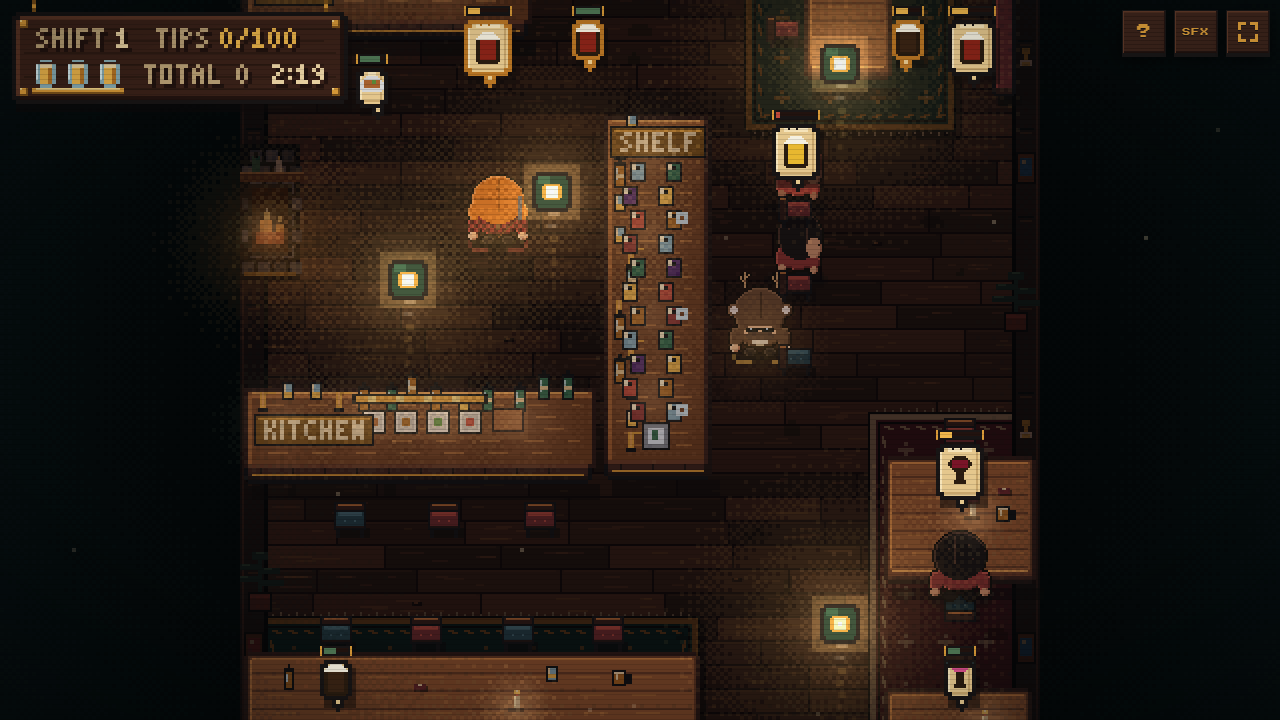
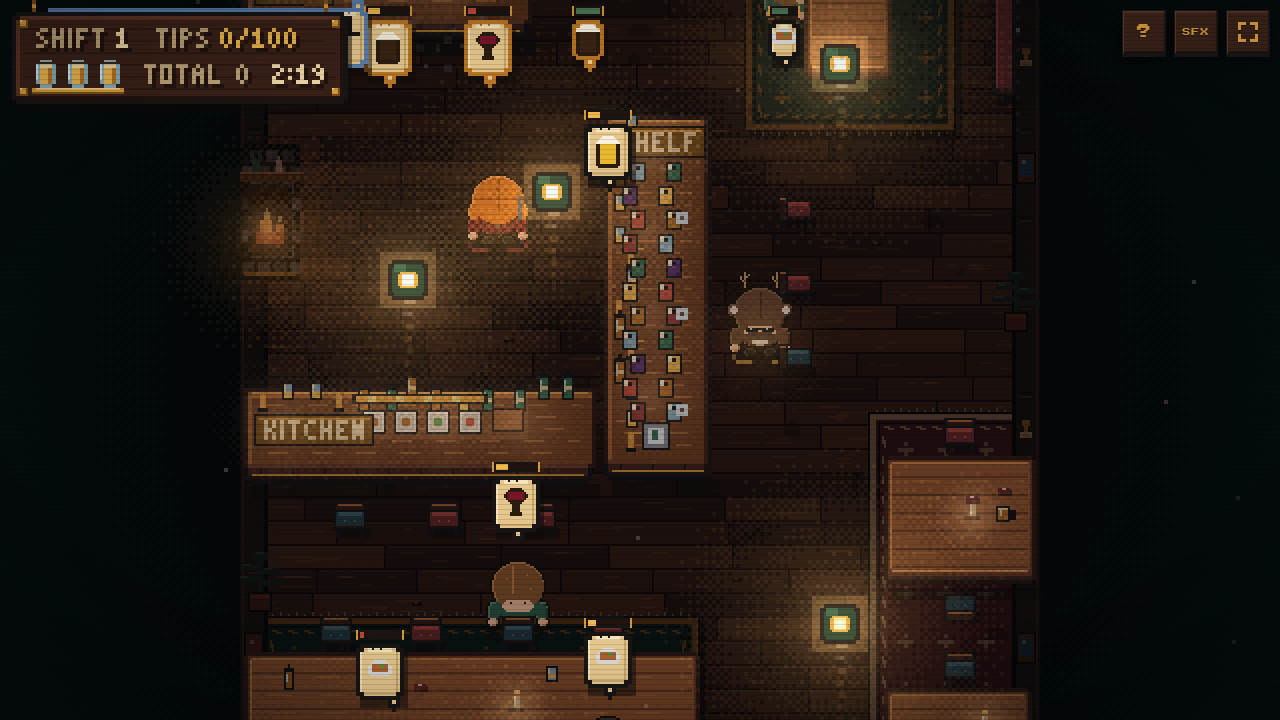
feat(P5–P7): event-driven reactions, calmer shell, docs and evidence for the overhead overhaul
Reactions ride existing outcomes only (hit squash over the existing
hit-stop, delivery lift, hunter startle, pint while drinking) and never
touch position, score or input. Shell scanlines softened. CLAUDE.md,
art-direction status, README and the ledger record the overhead camera,
the generator, the atlas pipeline, measurements and the remaining gaps.

Claude-Session: https://claude.ai/code/session_01QtnAqeEh7ToxbAzhWcUX8e

diff --git a/game.js b/game.js
@@ -311,17 +311,17 @@ function bakedSprite(sprite, palette, flipX) {
   return pair[key];
 }
 
-function drawSprite(sprite, palette, screenX, screenY, flipX) {
+// `squash` ({x, y} scale factors, optional) is the reaction layer's only
+// handle on a sprite: the feet stay put and the body compresses or lifts.
+function drawSprite(sprite, palette, screenX, screenY, flipX, squash) {
   const pixelSize = sprite.pixelSize || 1;
-  const x = Math.round(screenX * ART_SCALE) / ART_SCALE;
-  const y = Math.round(screenY * ART_SCALE) / ART_SCALE;
-  ctx.drawImage(
-    bakedSprite(sprite, palette, !!flipX),
-    x,
-    y,
-    sprite.w * pixelSize,
-    sprite.h * pixelSize,
-  );
+  const w = sprite.w * pixelSize;
+  const h = sprite.h * pixelSize;
+  const sxScale = squash ? squash.x : 1;
+  const syScale = squash ? squash.y : 1;
+  const x = Math.round((screenX + (w - w * sxScale) / 2) * ART_SCALE) / ART_SCALE;
+  const y = Math.round((screenY + (h - h * syScale)) * ART_SCALE) / ART_SCALE;
+  ctx.drawImage(bakedSprite(sprite, palette, !!flipX), x, y, w * sxScale, h * syScale);
 }
 
 function spriteVisualW(sprite) { return sprite.w * (sprite.pixelSize || 1); }
@@ -1815,6 +1815,8 @@ function resetGame() {
   hitStopTimer = 0;
   pintKnockTimer = 0;
   pintKnockIndex = -1;
+  player.reaction = null;
+  hunter.reaction = null;
   shift = 1;
   shiftClock = 0;
   shiftTips = 0;
@@ -1911,6 +1913,7 @@ function completeDelivery(target) {
   removeFromTray(target);
   const { tip, clutch } = deliveryTip(target);
   earnTips(tip);
+  react(player, 'serve');
   shiftStats.deliveries++;
   if (clutch) shiftStats.clutch++;
   Sound.play('deliver');
@@ -2415,6 +2418,7 @@ function hunterNoticesPlayer() {
   setHunterState('chase');
   hunterLastSeenTimer = 0;
   showHunterAlert('!', 0.9);
+  react(hunter, 'spotted');
   Sound.play('whistle');
   Dialogue.trigger('hunterSpotted', null);
 }
@@ -2761,8 +2765,9 @@ function update(dt) {
     if (t.ttl <= 0) floatingTexts.splice(i, 1);
   }
 
-  // Leg animation timers.
+  // Leg animation timers, and the reaction timers that ride on them.
   for (const e of [player, hunter, ...customers]) tickLegs(e, dt);
+  tickReactions(dt);
   if (waiter) tickLegs(waiter, dt);
 
   // Life regen: only once a few hit-free seconds have passed, and never
@@ -2792,6 +2797,7 @@ function update(dt) {
     shiftStats.hits++;
     hitStopTimer = HIT_STOP;
     pintKnockTimer = PINT_KNOCK_TIME;
+    react(player, 'hit');
     pintKnockIndex = Math.min(LIFE_SEGMENT_COUNT - 1, Math.floor(life * LIFE_SEGMENT_COUNT + 1e-6));
 
     if (life <= 1e-9) {
@@ -4301,20 +4307,61 @@ function drawEntity(e, camX, camY) {
   const flicker = e === player && hitInvulnTimer > 0 && Math.floor(hitInvulnTimer * 10) % 2 === 0;
   ctx.globalAlpha = flicker ? 0.4 : 1;
   const frame = rasterFrameFor(e);
-  if (frame) drawRasterFrame(frame, e.x - camX + (e.swayOffset || 0), e.y - camY + stepLift);
-  else drawSprite(sprite, e.palette || set.palette, sx, sy, flip);
+  const squash = squashFor(e);
+  if (frame) drawRasterFrame(frame, e.x - camX + (e.swayOffset || 0), e.y - camY + stepLift, squash);
+  else drawSprite(sprite, e.palette || set.palette, sx, sy, flip, squash);
   ctx.globalAlpha = 1;
+  // The hunter's pint while he sits one out: the existing drinking state,
+  // shown in his hand.
+  if (e === hunter && hunterState === 'drinking') {
+    const icon = ORDER_ICONS['beer-blond'];
+    drawSprite(icon.sprite, icon.palette, e.x - camX + 5, e.y - camY - 12, false);
+  }
 }
 
 // Draws an atlas frame with its pivot at world point (wx, wy): source rect in
 // image pixels, destination in world units (pixels ÷ authored density), the
 // origin snapped to the backing grid like every procedural sprite.
-function drawRasterFrame(frame, wx, wy) {
+function drawRasterFrame(frame, wx, wy, squash) {
   const d = frame.density;
-  const x = Math.round((wx - frame.pivot.x / d) * ART_SCALE) / ART_SCALE;
-  const y = Math.round((wy - frame.pivot.y / d) * ART_SCALE) / ART_SCALE;
-  ctx.drawImage(frame.image, frame.rect.x, frame.rect.y, frame.rect.width, frame.rect.height,
-    x, y, frame.rect.width / d, frame.rect.height / d);
+  const w = frame.rect.width / d;
+  const h = frame.rect.height / d;
+  const sxScale = squash ? squash.x : 1;
+  const syScale = squash ? squash.y : 1;
+  const x = Math.round((wx - frame.pivot.x / d * sxScale) * ART_SCALE) / ART_SCALE;
+  const y = Math.round((wy - frame.pivot.y / d * syScale) * ART_SCALE) / ART_SCALE;
+  ctx.drawImage(frame.image, frame.rect.x, frame.rect.y, frame.rect.width, frame.rect.height, x, y, w * sxScale, h * syScale);
+}
+
+// ---- Reactions (presentation only) ------------------------------------------
+// A reaction is a short timer on an entity, set where the game commits an
+// outcome (a hit, a delivery, the hunter spotting you) and read only here.
+// It changes how the sprite is drawn — a squash, a lift — never where the
+// entity is, what it scores or whether it can move. The existing hit-stop is
+// reused, not stacked.
+const REACTIONS = {
+  hit: { time: 0.32, squash: t => ({ x: 1 + 0.18 * t, y: 1 - 0.22 * t }) },          // recoil, settles
+  serve: { time: 0.26, squash: t => ({ x: 1 - 0.06 * Math.sin(t * Math.PI), y: 1 + 0.1 * Math.sin(t * Math.PI) }) },  // a lift
+  spotted: { time: 0.22, squash: t => ({ x: 1 - 0.08 * t, y: 1 + 0.14 * t }) },       // a startle stretch
+};
+function react(e, kind) {
+  const def = REACTIONS[kind];
+  if (!def) return;
+  // A hit outranks a celebration; nothing outranks a hit in progress.
+  if (e.reaction && e.reaction.kind === 'hit' && kind !== 'hit') return;
+  e.reaction = { kind, t: def.time };
+}
+function tickReactions(dt) {
+  for (const e of [player, hunter]) {
+    if (!e.reaction) continue;
+    e.reaction.t -= dt;
+    if (e.reaction.t <= 0) e.reaction = null;
+  }
+}
+function squashFor(e) {
+  if (!e.reaction || prefersReducedMotion) return null;
+  const def = REACTIONS[e.reaction.kind];
+  return def.squash(clamp(e.reaction.t / def.time, 0, 1));
 }
 
 // No contact shadow and no flicker handling — the ghost isn't standing on the

diff --git a/tests/smoke.js b/tests/smoke.js
@@ -396,6 +396,29 @@ function run() {
   if (debug.getHunterState().state !== 'lost') throw new Error('The ghost passing through the hunter should spook him.');
   debug.resetGame();
 
+  // Reactions ride on real events and never move anyone: a delivery lifts the
+  // Doe, a hit outranks a celebration, and the timers clear on restart.
+  debug.resetGame();
+  const seatR = debug.SEATS.find(s => !s.reserved && !s.occupied);
+  for (const s of debug.SEATS) s.occupied = s !== seatR;
+  debug.spawnCustomer();
+  for (const s of debug.SEATS) s.occupied = false;
+  seatR.occupied = true;
+  const cR = debug.customers[debug.customers.length - 1];
+  cR.state = 'sitting'; cR.x = cR.seat.x; cR.y = cR.seat.y; cR.path = null; cR.sitTimer = 40; cR.patienceDuration = 40; cR.orderType = 'wine'; cR.orderPlacedAt = 0; cR.orderAppearAt = 0;
+  cR.beingCarried = true; debug.player.tray.length = 0; debug.player.tray.push({ type: 'wine', customer: cR });
+  debug.player.x = cR.x; debug.player.y = cR.y + 6;
+  const beforeX = debug.player.x;
+  debug.handleInteract();
+  if (!debug.player.reaction || debug.player.reaction.kind !== 'serve') throw new Error('A delivery should start the serve reaction.');
+  if (debug.player.x !== beforeX) throw new Error('A reaction must not move the player.');
+  vm.runInContext("react(player, 'hit')", context);
+  vm.runInContext("react(player, 'serve')", context);
+  if (debug.player.reaction.kind !== 'hit') throw new Error('A hit must outrank a celebration.');
+  debug.render();
+  debug.resetGame();
+  if (debug.player.reaction) throw new Error('Restart should clear reactions.');
+
   // Shifts: the clock runs, last call arms in the final seconds and stops
   // new walk-ins, the tally board freezes the floor until a press, and the
   // next shift starts from zero with the target raised.
@@ -470,7 +493,7 @@ function run() {
   });
 
   rasterCheck.then(() => console.log(`Smoke test passed: ${SCRIPT_FILES.length} scripts, ${freeSeats} customer routes, ` +
-    `${debug.regularState().length} regulars, waiter visit, and serving loop, hunter states, Nazim's night, the round, the ghost's spook, shifts, and render pass with HUD, tally and caught boards; raster atlas path.`)).catch(err => { console.error(err); process.exit(1); });
+    `${debug.regularState().length} regulars, waiter visit, and serving loop, hunter states, Nazim's night, the round, the ghost's spook, reactions, shifts, and render pass with HUD, tally and caught boards; raster atlas path.`)).catch(err => { console.error(err); process.exit(1); });
 }
 
 run();

diff --git a/tools/export-sheets.js b/tools/export-sheets.js
@@ -50,7 +50,7 @@ async function main() {
     const result = await page.evaluate((kind) => {
       const set = window.__debug.SPRITES[kind];
       if (!set || !set.dirs) return null;
-      const bases = ['idle', 'walk', 'carry', 'carryWalk', 'gun', 'gunWalk', 'lean', 'slump'];
+      const bases = ['idle', 'walk', 'carry', 'carryWalk', 'gun', 'gunWalk', 'lean', 'slump', 'spray'];
       const dirs = ['down', 'up', 'right', 'left'];
       const frames = [];       // { id, sprite }
       const animations = {};

diff --git a/style.css b/style.css
@@ -73,7 +73,7 @@ html, body {
   inset: 0;
   pointer-events: none;
   background:
-    repeating-linear-gradient(0deg, rgba(0, 0, 0, 0.12) 0 1px, rgba(0, 0, 0, 0) 1px 5px),
+    repeating-linear-gradient(0deg, rgba(0, 0, 0, 0.05) 0 1px, rgba(0, 0, 0, 0) 1px 5px),
     radial-gradient(120% 100% at 50% 50%, rgba(0, 0, 0, 0) 40%, rgba(0, 0, 0, 0.7) 100%);
 }
 

diff --git a/CLAUDE.md b/CLAUDE.md
@@ -106,7 +106,9 @@ A collider is padded by `CHAIR_GAP + CHAIR_SIZE` **only on sides that actually h
 
 ### 3. Sprite authoring and rendering
 
-All visuals are rows-of-palette-characters: `R(char, count, ...)` builds a row string, `buildSprite(rows)` wraps rows into `{rows, w, h}`, and a palette object maps each character to a hex colour (or `null` for transparent). **The cast is authored straight onto the 2x backing grid.** `lightSprite(rows, ramps, w, h)` takes literal rows (32×40 for the Doe and hunter, 28×32 for the regulars, 28×26 for walk-ins), applies one light direction (top-left: exposed north/west edges take the material's light key, south/east its dark key) and returns a `pixelSize: 0.5` sheet — the same on-screen footprint as the old 16×18 authored sprites with four times the information, which is where the faces come from. Pose variants are built by `patchRow` (blink, talk, walk legs, the held pint) rather than authored twice; Nazim's lean/slump drop the head rows onto the chest. Nazim keeps the `r` cheek and `w` eye keys so `NAZIM_STAGE_PALETTES` still recolours him per stage. Sheets wider than the body (carry, shotgun) set `anchorX` in logical units. The coarse `DOE_IDLE`/`NAZIM_IDLE`/… rows remain as silhouette reference and feed `detailSprite()`, which refines a 1x silhouette onto the 2x grid — still used by the waiter and the order icons. `composeSprite()` is the older wide-pose helper.
+All visuals are rows-of-palette-characters: `R(char, count, ...)` builds a row string, `buildSprite(rows)` wraps rows into `{rows, w, h}`, and a palette object maps each character to a hex colour (or `null` for transparent). **The camera is high overhead** (`docs/overhaul/00-CAMERA-DIRECTION.md`): crowns of heads, hats and hoods, shoulder tops, foreshortened bodies, a sliver of face only when facing the camera or sideways. **The cast is generated, not hand-typed.** `ohFigure(spec, dir, frame, opts)` paints a 40×44 backing-pixel figure (`pixelSize 0.5`, feet at the bottom) from a spec — head kind (`hood`/`cap`/`hair`/`bald`/`flatcap`), ears/antlers/flaps, coat/hands/feet/chest/vest, glasses/beard/moustache/brows — then `ohOutline` and `lightSprite` (one top-left light, three tones per material). `ohSheetSet` builds a **directional set** (`dirs: true`): keys are `pose.facing` — `idle`, `walk`/`walkB` (two-step), and prop variants `carry*` (Doe), `gun*` (hunter), `spray*` (waiter), `lean`/`slump` (Nazim: head pushed toward what he faces). `down`, `up` and `right` are painted; `left` mirrors the body and **re-paints the prop on the anatomical side** — never mirror a carry or gun frame. `OH_CUSTOMER.variants` gives walk-ins three head shapes over the six palette looks. Nazim keeps the `r`/`w` keys for `NAZIM_STAGE_PALETTES`, though from above his face is hidden when he faces the table (by design). The ghost is `OH_GHOST` (alpha, outside the palette policy). The frontal HD sheets (`lightSprite` on literal rows: `DOE_HD`, `HUNTER_HD`, `NAZIM_HD`…) and the coarse `DOE_IDLE`-style rows remain as costume references; `detailSprite()` still refines the order icons.
+
+**Raster atlases can replace any family.** `src/assets.js` (`Assets`) loads optional PNG+JSON atlases listed in `assets/sprites/manifest.json` (schema v1: image-pixel rects and pivots, `authoredPixelsPerWorldUnit`, timed animations keyed `pose.facing`), validates them before registering, waits for decode, drops stale loads after a restart and falls back per family to the generated sets. `drawEntity` asks `rasterFrameFor(e)` first and draws through `drawRasterFrame` (pixels ÷ density = world units, pivot at the feet). Walk-ins stay procedural because their palette is per entity. `tools/export-sheets.js` writes the generated sets out as atlases, so the files in `assets/sprites/` are the current art and a cleaned production sheet with the same layout drops in file-for-file.
 
 `drawSprite()` is still the single renderer for the format, but it no longer paints pixel by pixel every frame: it **bakes** each `(sprite, palette, facing)` combination into an offscreen canvas the first time it's needed and blits it afterwards. The cache is nested `WeakMap`s keyed by object identity, so a customer's one-off palette is collected along with the customer.
 
@@ -114,7 +116,7 @@ A sprite set is keyed by pose name. Movers use `idle`/`walk` driven by `legFrame
 
 ### 4. Entities and movement
 
-`makeEntity(kind, x, y)` creates the shared shape used by the player, hunter, customers **and regulars**. **An entity's `(x, y)` is its feet/anchor point, not top-left.** `ENTITY_HITBOXES` preserves the original physics dimensions; visual width/height and optional `anchorX` come from the selected sheet. Never derive collision from refined sprite dimensions or a wider prop pose.
+`makeEntity(kind, x, y)` creates the shared shape used by the player, hunter, customers **and regulars**. **An entity's `(x, y)` is its feet/anchor point, not top-left.** Every entity also carries a visual `facing` (`down`/`up`/`right`/`left`) set by `faceToward(e, dx, dy)` from its movement (dominant axis, small dead-zone, keeps the last facing when still) or by `seatFacing(seat)` when seated; it selects the sprite direction and never changes the movement vector. `ENTITY_HITBOXES` preserves the original physics dimensions; visual width/height and optional `anchorX` come from the selected sheet. Never derive collision from refined sprite dimensions or a wider prop pose.
 
 `tryMove(e, dx, dy)` resolves X and Y independently against `FURNITURE` colliders so movement slides along walls/tables instead of stopping dead, returning `{x, y, blockedX, blockedY}`. `collidesAt(e, x, y, exclude)` takes an optional piece of furniture to ignore — that is what lets a customer walk *into* their own table's padded collider to reach the chair inside it. Base speeds: player **62**, customer 38, hunter 54 (recomputed every frame from the level), waiter 46, ghost 16.
 
@@ -194,7 +196,7 @@ The rub/slide layer stays as the safety net for the cases the grid can't express
 
 ### 10. Life and capture
 
-Contact with the hunter removes one of three life segments instead of ending the run immediately. A 1.5-second invulnerability window and a collision-aware shove give the player room to escape; the sprite flickers while protected. Regeneration begins after three hit-free seconds and takes 20 seconds to refill an empty bar. A hit also holds the floor for `HIT_STOP` 0.08 s and rocks the emptied pint on the HUD sign (`pintKnockTimer`/`pintKnockIndex`). Only the final hit sets `caught`, plays the caught cue and triggers the room's caught dialogue.
+Contact with the hunter removes one of three life segments instead of ending the run immediately. A 1.5-second invulnerability window and a collision-aware shove give the player room to escape; the sprite flickers while protected. Regeneration begins after three hit-free seconds and takes 20 seconds to refill an empty bar. A hit also holds the floor for `HIT_STOP` 0.08 s, rocks the emptied pint on the HUD sign (`pintKnockTimer`/`pintKnockIndex`) and starts the `hit` **reaction**. Reactions (`REACTIONS`, `react(e, kind)`, `squashFor`) are presentation-only timers on the player and hunter — `hit` squashes, `serve` lifts, `spotted` stretches — drawn as a feet-anchored scale in `drawSprite`/`drawRasterFrame`; a hit outranks a celebration, they tick with the simulation, and `resetGame` clears them. They never move an entity, change a score or lock input; the hunter's pint while `drinking` is drawn from that existing state. Only the final hit sets `caught`, plays the caught cue and triggers the room's caught dialogue.
 
 **High scores** live in `localStorage` under `lepub_highscores` (top 5, `{name, score}`; plain numbers from older saves are normalized on read, and every access is wrapped because storage can throw outright). Being caught with a score calls `beginNameEntry()`: while `enteringName` is true the caught screen shows a name field instead of the restart prompt, and the keydown handler takes the keyboard outright so no other shortcut can eat a letter or drop the score. The DOM restart button is hidden for the same reason (`syncCaughtDom`). Typing a name needs a keyboard, so on a touch device (`canTypeName()`) the score is filed unnamed rather than showing a field nobody can fill.
 
@@ -213,10 +215,10 @@ Scaling clamps at `EFFECTIVE_LEVEL_CAP` (10) so the game plateaus, while the shi
 1. **backdrop** — flat dark fill for wherever the viewport exceeds the world.
 2. **room** — one `drawImage` out of `roomCanvas`, a world-sized offscreen canvas baked once at load by `drawGround()` + `drawArchitecture()`: plank floor with dithered grain and static wear, rear wall with windows and posters, side wainscoting, front wall and the door, and `drawWallProps()`: the stone fireplace in the bar pocket (`FIREPLACE`), the stag over the rear wall, string lights on the crown rail, a coat stand and a barrel in the front corners, palms on the side walls — all on the wall bands or in dead corners, no colliders. Both functions take the target context as a parameter that deliberately shadows the screen `ctx`; they are only ever called against that offscreen canvas.
 3. **floor darkness** — `drawDarkness(DARK_FLOOR)`: a multiply over the room so the boards go near-black between lamps.
-4. **y-sorted scene** — furniture and every character in one pass sorted by `sortY`, drawn in three-quarter view: 9px panelled bar front with brass rail, tap fonts on the taps, the bottle gantry down the stem, the kitchen hatch, 5–8px table fronts with legs, chairs with backs placed away from the table, buttoned bench backs. Colliders are unchanged; only the drawing has depth. The table's `sortY` intentionally uses the table top's own front edge, not the chair-inclusive footprint, so a customer on the south chair draws *in front of* their table (see the comment in `makeTable`). Entries come from a reused pool, so a busy frame allocates nothing.
+4. **y-sorted scene** — furniture and every character in one pass sorted by `sortY`, drawn for the high overhead camera: tops dominate, a 4px bar lip with brass rail and a 2px side face on the stem, tap fonts from above with a drip tray, bottles standing on the shelf counter (`drawBottleRows`) with glasses and an ice bucket, the kitchen hatch as a heat-lamp bar over plates, 3px table lips, chairs as cushions with a thin far-side rail, benches with a thin back, small brass station plaques at the counter's left/top end. Colliders are unchanged; only the drawing has depth. The table's `sortY` intentionally uses the table top's own front edge, not the chair-inclusive footprint, so a customer on the south chair draws *in front of* their table (see the comment in `makeTable`). Entries come from a reused pool, so a busy frame allocates nothing.
 5. **scene darkness** — `drawDarkness(DARK_SCENE)`: a lighter multiply over everything drawn so far, so people and furniture sit in the dark without vanishing.
 6. **floor light** — `drawFloorLight()` composites prebaked Bayer-dithered glow canvases with `'lighter'`: a wide warm pool and a hot core under each of seven pendant lamps with a long broken varnish streak, bottle light along every counter, candle glows, the fireplace (`FIRE_RGB`, breathing), cool window spill, the door (brighter while somebody comes through), and readability halos on the Doe and hunter.
-7. **foreground** — the pendant fixtures (green enamel shade, brass rim, bulb) hanging `LAMP_DROP` above their pools with a stepped additive cone between, then dust motes.
+7. **foreground** — the pendant fixtures seen from above: a green enamel shade disc with a brass rim and the bulb burning through the middle, floating over its own pool (no cone, no cord — the camera looks down the wire), then dust motes.
 8. **grade** — a light shift-scaled midnight tint plus a heavier dithered vignette (`makeVignetteCanvas`, rebuilt only when the viewport size changes), then the hunter danger edge.
 9. **order bubbles**, then **dialogue bubbles** — above the grade, so a patience bar is never dimmed. Both are parchment cards painted by `drawParchmentPlate()`; the frame colour stays semantic (regular, carried, speaker accent) and the patience gauge is brass-capped. A ticket is compact (1px pad) while its patience is above 40% and it isn't yours, so the lamps stay the brightest thing on screen. `drawOrderBubbleFor()` picks whichever bubble a person warrants: the live order growing in, or the one just dealt with shrinking out. The pop is three discrete steps (`noteOrderPlaced` / `noteOrderCleared` / `tickOrderExit` keep the timing, shared by both populations) so it animates on whole pixels rather than easing through fractional sizes.
 10. **floating score text** (`+10`/`-15`), pixel font, fading as it drifts up.

diff --git a/HANDOFF.md b/HANDOFF.md
@@ -120,6 +120,45 @@ double-scaling, phases P0–P7 with evidence.
   unchanged (already on the backing grid); regulars' blush is invisible from
   above by design (they face the table).
 
+### P5/P6/P7 evidence — reactions, shell, integration (ARC-08/09/10/13/14)
+
+- P5 (ARC-09): `REACTIONS`/`react`/`tickReactions`/`squashFor` — hit
+  (0.32 s recoil squash, rides the existing `HIT_STOP`, no second freeze),
+  serve (0.26 s lift on `completeDelivery`), spotted (0.22 s stretch on
+  `hunterNoticesPlayer`); hunter's pint drawn from the existing `drinking`
+  state. Feet-anchored scale in `drawSprite`/`drawRasterFrame`; a hit
+  outranks a celebration; cleared by `resetGame`; suppressed under
+  reduced-motion. Smoke: a delivery starts `serve` without moving the
+  player, hit outranks serve, restart clears. Perfect-service, hunter damage,
+  fatigue, knockback: deliberately not added (no such mechanics).
+- P5 lighting (ARC-08): unchanged from the 20:10 tone-down (pools 0.26, hot
+  cores 0.16, cones removed with the overhead pendants); shade discs add a
+  0.16 additive square only. Dark/busy readability: review frame + mobile
+  capture (both leads readable between pools via outline + halo 0.14/0.1).
+- P6 (ARC-10): HUD inventory unchanged (shift, tips/target, total, clock,
+  pints); tickets compact/urgent/carried; station plaques small brass;
+  shell scanlines 0.12→0.05. Touch/desktop captures in scratchpad `shots/`.
+- P7 (ARC-13/14): perf after everything — median 1.9–3.1 ms, p95 7.4–12.6 ms
+  (baseline 1.9–3.0 / 7.6–10.6; same scenario, 600 frames, 1280×720 @4×,
+  shift-6 crowd, hunter chasing). Tests: `node tests/smoke.js` and
+  `node tests/assets.js` pass; `git diff --check` clean. Docs: CLAUDE.md
+  §3/§4/§10/§12, art-direction README status, README test note,
+  `assets/gameplay.png` = current natural frame.
+
+### Remaining gaps (honest list)
+
+- Production art: every atlas in `assets/sprites/` is the *generated*
+  overhead art exported as PNG. Hand-cleaned sheets (from the pack's
+  references, cleaned in Aseprite to the contract) are still to be made;
+  they replace the files one-for-one, same layout (40×44 cells, pivot
+  (20,44), density 2) or any layout the JSON describes.
+- Floor/walls are still procedural boards; a painted tile set is the next
+  material step. No rain on the windows. Order icons unchanged.
+- Nazim's blush/eye stage cues are invisible from above while he faces the
+  table (lean/slump/sway carry his state instead).
+- Marker placement does not yet reserve the touch-control corners.
+- Second room: needs the layout data-file refactor described on 09-15.
+
 ### Plan for this session
 
 P1 metrics doc + raster frame draw; P2 `src/assets.js` (PNG+JSON v1 per the

diff --git a/assets/art-direction/README.md b/assets/art-direction/README.md
@@ -24,14 +24,16 @@ Translate its visual language into the game rather than copying its camera:
 `floor-plan.png` / `floor-plan.json` are the room as the game plays it,
 rendered from the furniture data (see `docs/ART-PLAN.md` §2b).
 
-## Status (2026-09-15)
+## Status (2026-09-16)
 
-Implemented: night base with additive pendant pools and cones, varnish
-streaks, lit bar/gantry/hatch and fireplace; three-quarter furniture fronts,
-chair backs, bench backs; the whole cast authored at backing resolution with
-faces; perimeter props; walnut/brass/parchment UI. Still to do: the waiter and
-ghost at backing resolution, more walk-in variety (hats, hair shapes), rain on
-the windows, and a real back-bar once the architectural plan lands.
+The camera is now the high overhead of `overhead/gameplay-modernization-concept.png`
+(see `../../docs/overhaul/00-CAMERA-DIRECTION.md`, which supersedes the
+three-quarter wording below): the whole cast is generated overhead with four
+directions and shipped as atlases in `../sprites/`; furniture, counter props
+and pendants are drawn for that camera over the same colliders; night
+lighting and the fireplace stay. Still to do: hand-cleaned production sheets
+replacing the generated atlases file-for-file, rain on the windows, painted
+floor/wall tiles in place of the procedural boards, and the second room.
 
 ## Acceptance check
 

diff --git a/README.md b/README.md
@@ -133,7 +133,7 @@ The dependency-free smoke test loads the production scripts in their real
 order, runs every customer seat route in and out, completes a waiter visit,
 and exercises the render pass against a lightweight canvas/DOM stand-in.
 
-For browser testing, exercise both a wide desktop viewport and a portrait mobile viewport. Useful checks include resizing during a run, simultaneous movement and touch interaction, restarting after a catch, muting before and after the first sound, and closing a shift on both the clock and the tips target.
+Run `node tests/assets.js` for the raster asset registry. For browser testing, exercise both a wide desktop viewport and a portrait mobile viewport. Useful checks include resizing during a run, simultaneous movement and touch interaction, restarting after a catch, muting before and after the first sound, and closing a shift on both the clock and the tips target.
 
 ### Debug console
 
